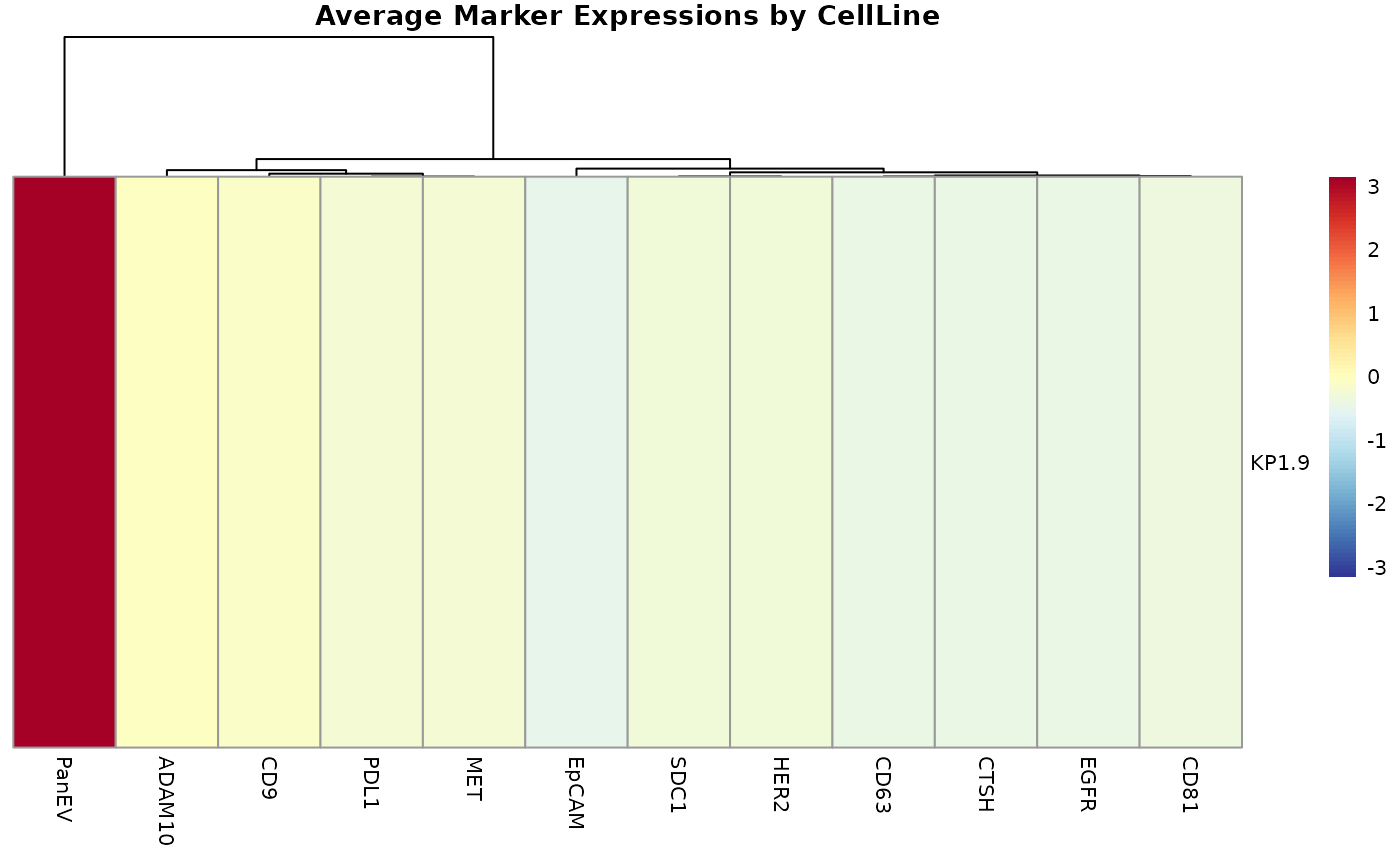
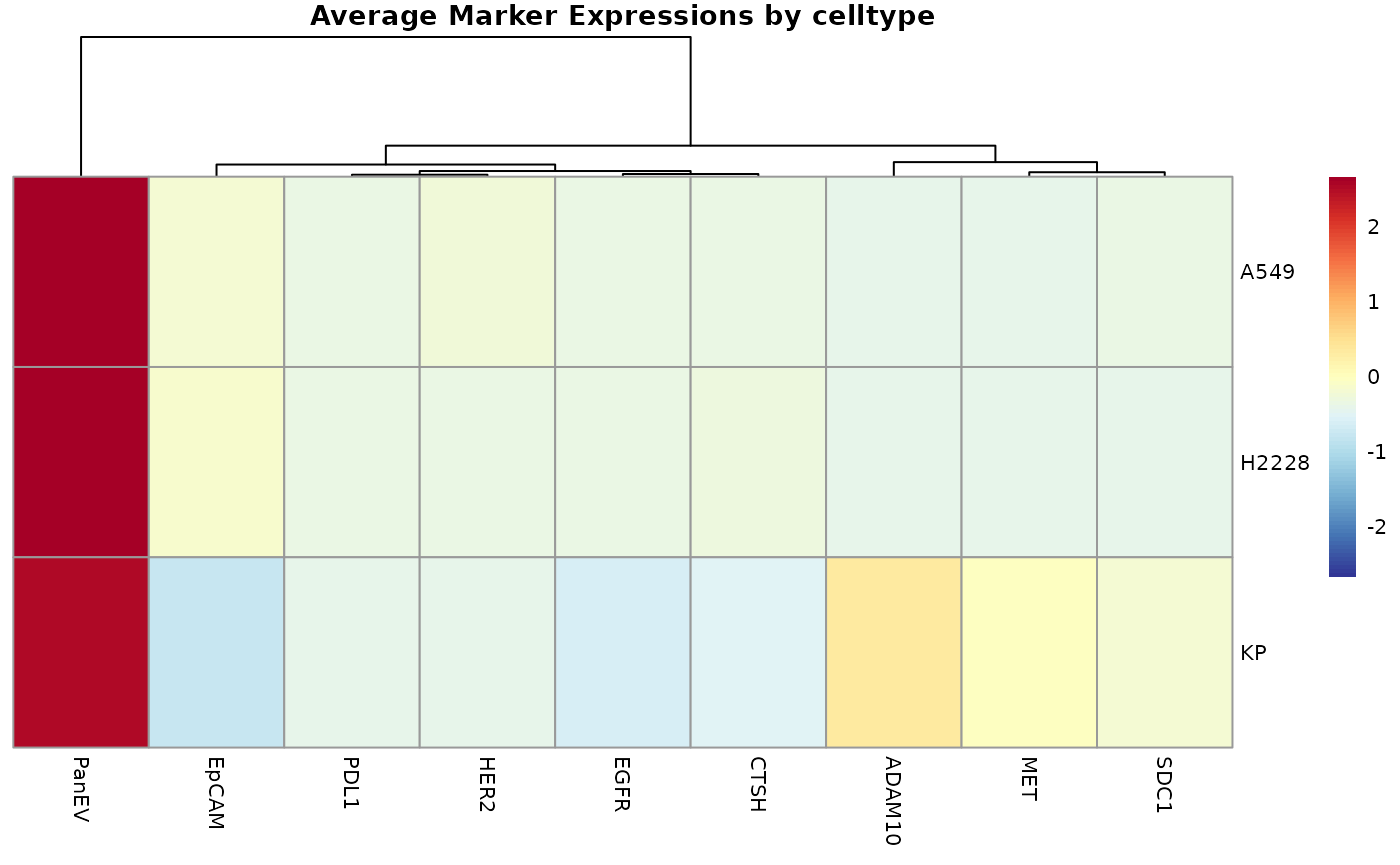
Deploying to gh-pages from @ yeinchung/Cygnus@9e8c36474502d45b6f854b7b77a1e1ed13e32235 🚀

diff --git a/articles/examples.html b/articles/examples.html
@@ -94,23 +94,23 @@ data can be downloaded here.</p>
 markers column from the input .csv file. This can be done through an
 interactive Shiny App.</p>
 <div class="sourceCode" id="cb2"><pre class="downlit sourceCode r">
-<code class="sourceCode R"><span><span class="va">data.path</span> <span class="op">&lt;-</span> <span class="st">"../inst/extdata/KP1.9_Raw.csv"</span> </span>
+<code class="sourceCode R"><span><span class="va">data.path</span> <span class="op">&lt;-</span> <span class="st">"../inst/extdata/all_cells.csv"</span> </span>
 <span><span class="co"># cyg &lt;- CreateCygnus(data.path) # this starts the interactive app</span></span>
 <span></span>
 <span><span class="va">cyg</span> <span class="op">&lt;-</span> <span class="fu"><a href="../reference/CreateCygnus.html">CreateCygnus</a></span><span class="op">(</span><span class="va">data.path</span>,</span>
-<span>                    markers_col <span class="op">=</span> <span class="fu"><a href="https://rdrr.io/r/base/c.html" class="external-link">c</a></span><span class="op">(</span><span class="st">"CD63"</span>, <span class="st">"PanEV"</span>, <span class="st">"EpCAM"</span>, <span class="st">"CD9"</span>, <span class="st">"SDC1"</span>, </span>
-<span>                                    <span class="st">"EGFR"</span>, <span class="st">"PDL1"</span>, <span class="st">"MET"</span>, <span class="st">"CD81"</span>, <span class="st">"HER2"</span>, </span>
-<span>                                    <span class="st">"ADAM10"</span>, <span class="st">"CTSH"</span><span class="op">)</span>,</span>
-<span>                    meta_col <span class="op">=</span> <span class="cn">NULL</span><span class="op">)</span></span>
+<span>                    markers_col <span class="op">=</span> <span class="fu"><a href="https://rdrr.io/r/base/c.html" class="external-link">c</a></span><span class="op">(</span><span class="st">"PanEV"</span>, <span class="st">"EpCAM"</span>, <span class="st">"MET"</span>,</span>
+<span>                                    <span class="st">"SDC1"</span>, <span class="st">"EGFR"</span>, <span class="st">"ADAM10"</span>,</span>
+<span>                                    <span class="st">"CTSH"</span>, <span class="st">"PDL1"</span>, <span class="st">"HER2"</span> <span class="op">)</span>,</span>
+<span>                    meta_col <span class="op">=</span> <span class="st">"celltype"</span><span class="op">)</span></span>
 <span></span>
 <span><span class="va">cyg</span></span></code></pre></div>
 <pre><code><span><span class="co">## Summary of CygnusObject:</span></span>
 <span><span class="co">## Slot: [1] "Raw_Score"</span></span>
-<span><span class="co">## Numer of EVs: [1] 755</span></span></code></pre>
+<span><span class="co">## Numer of EVs: [1] 3264</span></span></code></pre>
 <p>If any metadata from another file need to be added, you can do so
 with the following code:</p>
 <div class="sourceCode" id="cb4"><pre class="downlit sourceCode r">
-<code class="sourceCode R"><span><span class="va">cyg</span><span class="op">@</span><span class="va">ev_meta</span><span class="op">[[</span><span class="st">'CellLine'</span><span class="op">]</span><span class="op">]</span> <span class="op">&lt;-</span> <span class="st">"KP1.9"</span></span></code></pre></div>
+<code class="sourceCode R"><span><span class="va">cyg</span><span class="op">@</span><span class="va">ev_meta</span><span class="op">[[</span><span class="st">'type'</span><span class="op">]</span><span class="op">]</span> <span class="op">&lt;-</span> <span class="st">"cell_line"</span></span></code></pre></div>
 <p>Cygnus allows iterative analysis, where the results from each step of
 analysis is stored in the same object. This is especially useful for
 data sharing.</p>
@@ -137,16 +137,20 @@ with greater size aggregating together when clustered. This function
 also adds a new matrix to the object, which can be viewed with
 <em>names(<a href="mailto:cyg@matrices" class="email">cyg@matrices</a>)</em>.</p>
 <div class="sourceCode" id="cb7"><pre class="downlit sourceCode r">
-<code class="sourceCode R"><span><span class="co">#cyg &lt;- normalizeByPanEV(cyg, "PanEV") </span></span></code></pre></div>
+<code class="sourceCode R"><span><span class="va">cyg</span> <span class="op">&lt;-</span> <span class="fu"><a href="../reference/normalizeByPanEV.html">normalizeByPanEV</a></span><span class="op">(</span><span class="va">cyg</span>, <span class="st">"PanEV"</span><span class="op">)</span> </span>
+<span><span class="fu"><a href="../reference/plotDistribution.html">plotDistribution</a></span><span class="op">(</span><span class="va">cyg</span>, matrix <span class="op">=</span> <span class="st">"normalized_exp_mat"</span><span class="op">)</span></span></code></pre></div>
+<p><img src="examples_files/figure-html/unnamed-chunk-6-1.png" width="700"></p>
 <p>Another normalization method uses the distribution of IgG (isotype
 control). This can be done with an interactive Shiny app.</p>
 <div class="sourceCode" id="cb8"><pre class="downlit sourceCode r">
 <code class="sourceCode R"><span><span class="co"># NEED TO BE UPDATED</span></span></code></pre></div>
 <p><strong>Description of average heatmap</strong></p>
 <div class="sourceCode" id="cb9"><pre class="downlit sourceCode r">
-<code class="sourceCode R"><span><span class="fu"><a href="../reference/plotAvgHeatmap.html">plotAvgHeatmap</a></span><span class="op">(</span><span class="va">cyg</span>, <span class="st">"CellLine"</span>, scale <span class="op">=</span> <span class="st">"row"</span><span class="op">)</span></span></code></pre></div>
-<p><img src="examples_files/figure-html/unnamed-chunk-8-1.png" width="700">
-### Marker Analysis</p>
+<code class="sourceCode R"><span><span class="fu"><a href="../reference/plotAvgHeatmap.html">plotAvgHeatmap</a></span><span class="op">(</span><span class="va">cyg</span>, <span class="st">"celltype"</span>, scale <span class="op">=</span> <span class="st">"row"</span><span class="op">)</span></span></code></pre></div>
+<p><img src="examples_files/figure-html/unnamed-chunk-8-1.png" width="700"></p>
+<div class="section level3">
+<h3 id="marker-analysis">Marker Analysis<a class="anchor" aria-label="anchor" href="#marker-analysis"></a>
+</h3>
 <p><strong>ADD DESCRIPTIONS</strong></p>
 <div class="sourceCode" id="cb10"><pre class="downlit sourceCode r">
 <code class="sourceCode R"><span><span class="co"># co localization (show venn and upset)</span></span></code></pre></div>
@@ -158,6 +162,7 @@ control). This can be done with an interactive Shiny app.</p>
 <code class="sourceCode R"><span><span class="co"># devience</span></span></code></pre></div>
 <div class="sourceCode" id="cb14"><pre class="downlit sourceCode r">
 <code class="sourceCode R"><span><span class="co"># upset plot</span></span></code></pre></div>
+</div>
 <div class="section level3">
 <h3 id="ev-analysis">EV Analysis<a class="anchor" aria-label="anchor" href="#ev-analysis"></a>
 </h3>

diff --git a/reference/index.html b/reference/index.html
@@ -107,7 +107,7 @@
         <dd>Mark Relevant Markers Using User Interface</dd>
       </dl><dl><dt>
 
-          <code><a href="nnormalizeByPanEV.html">nnormalizeByPanEV()</a></code>
+          <code><a href="normalizeByPanEV.html">normalizeByPanEV()</a></code>
 
         </dt>
         <dd>Normalize Expression Data by Pan-EV Marker</dd>
